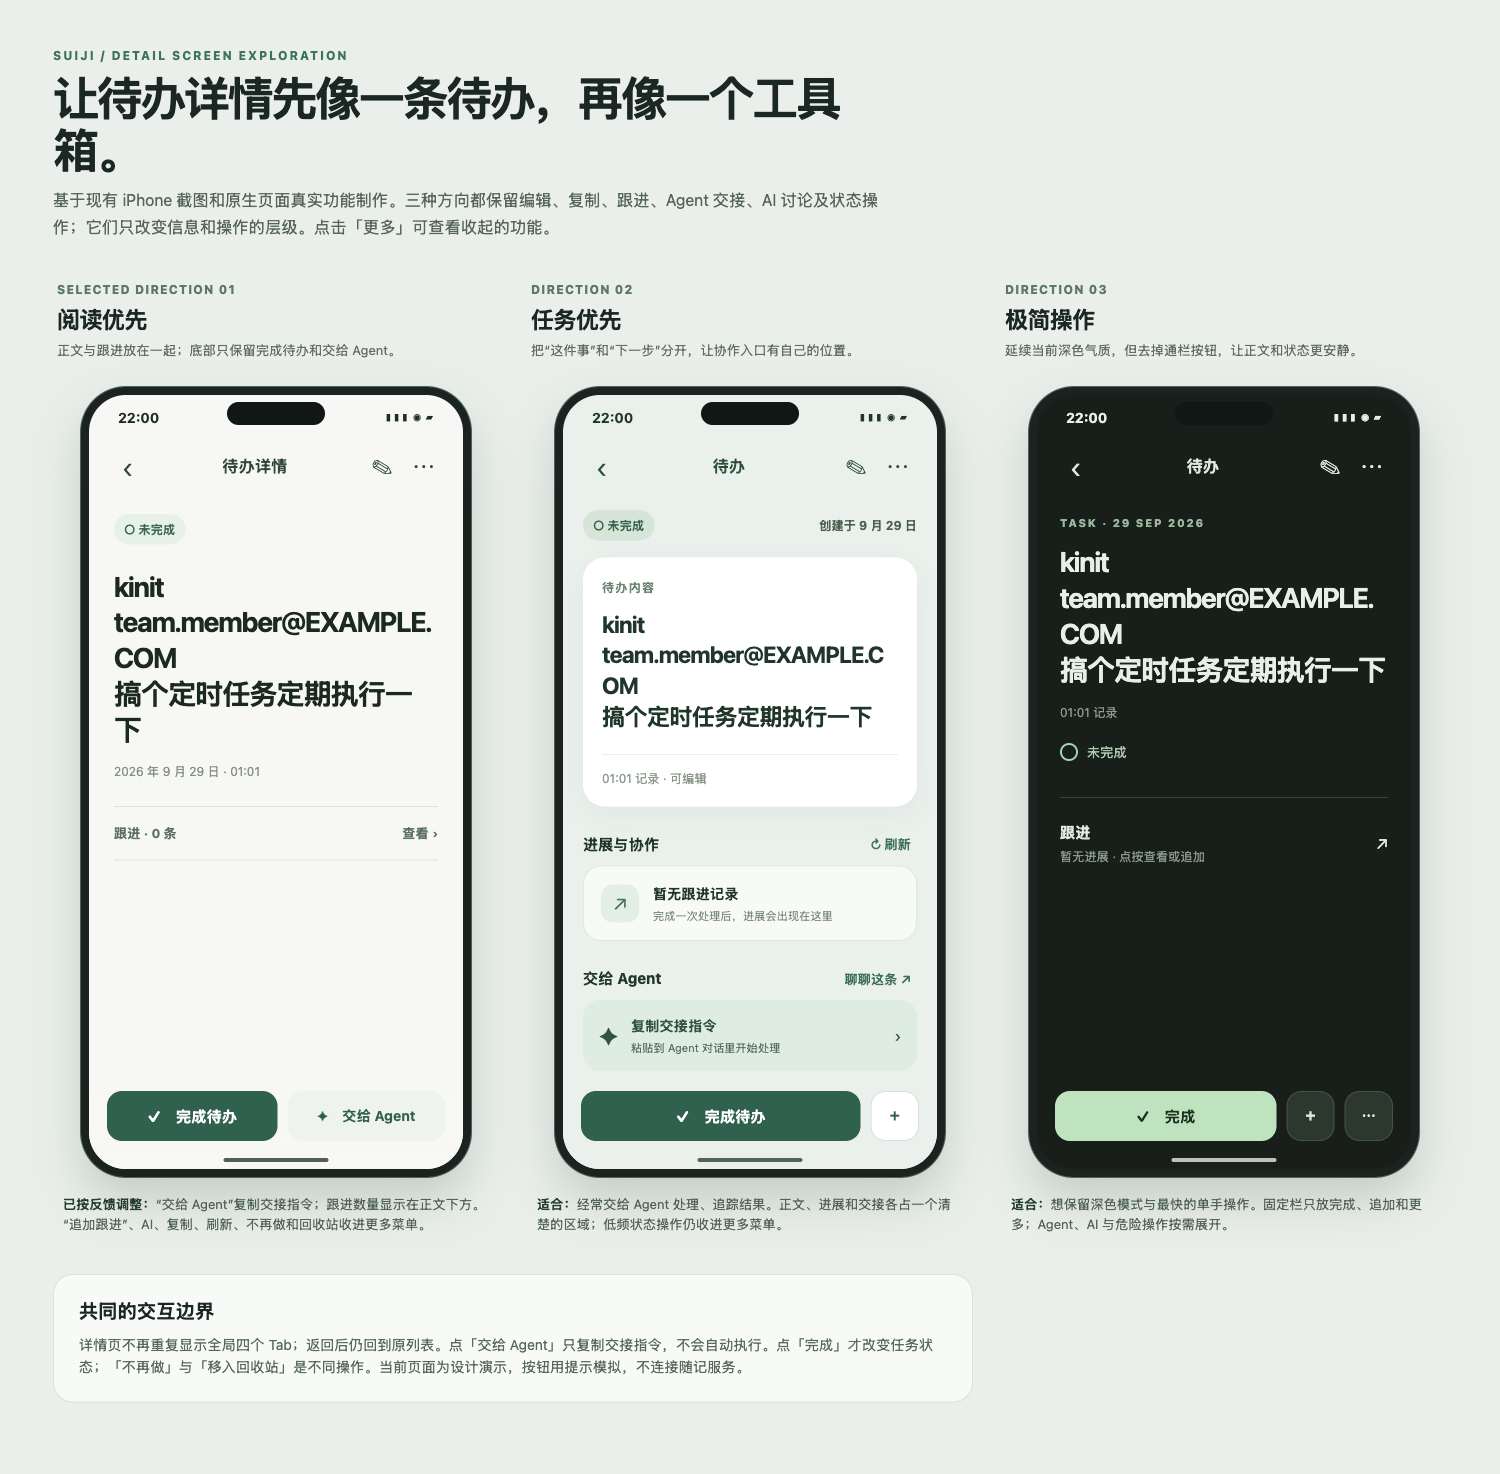
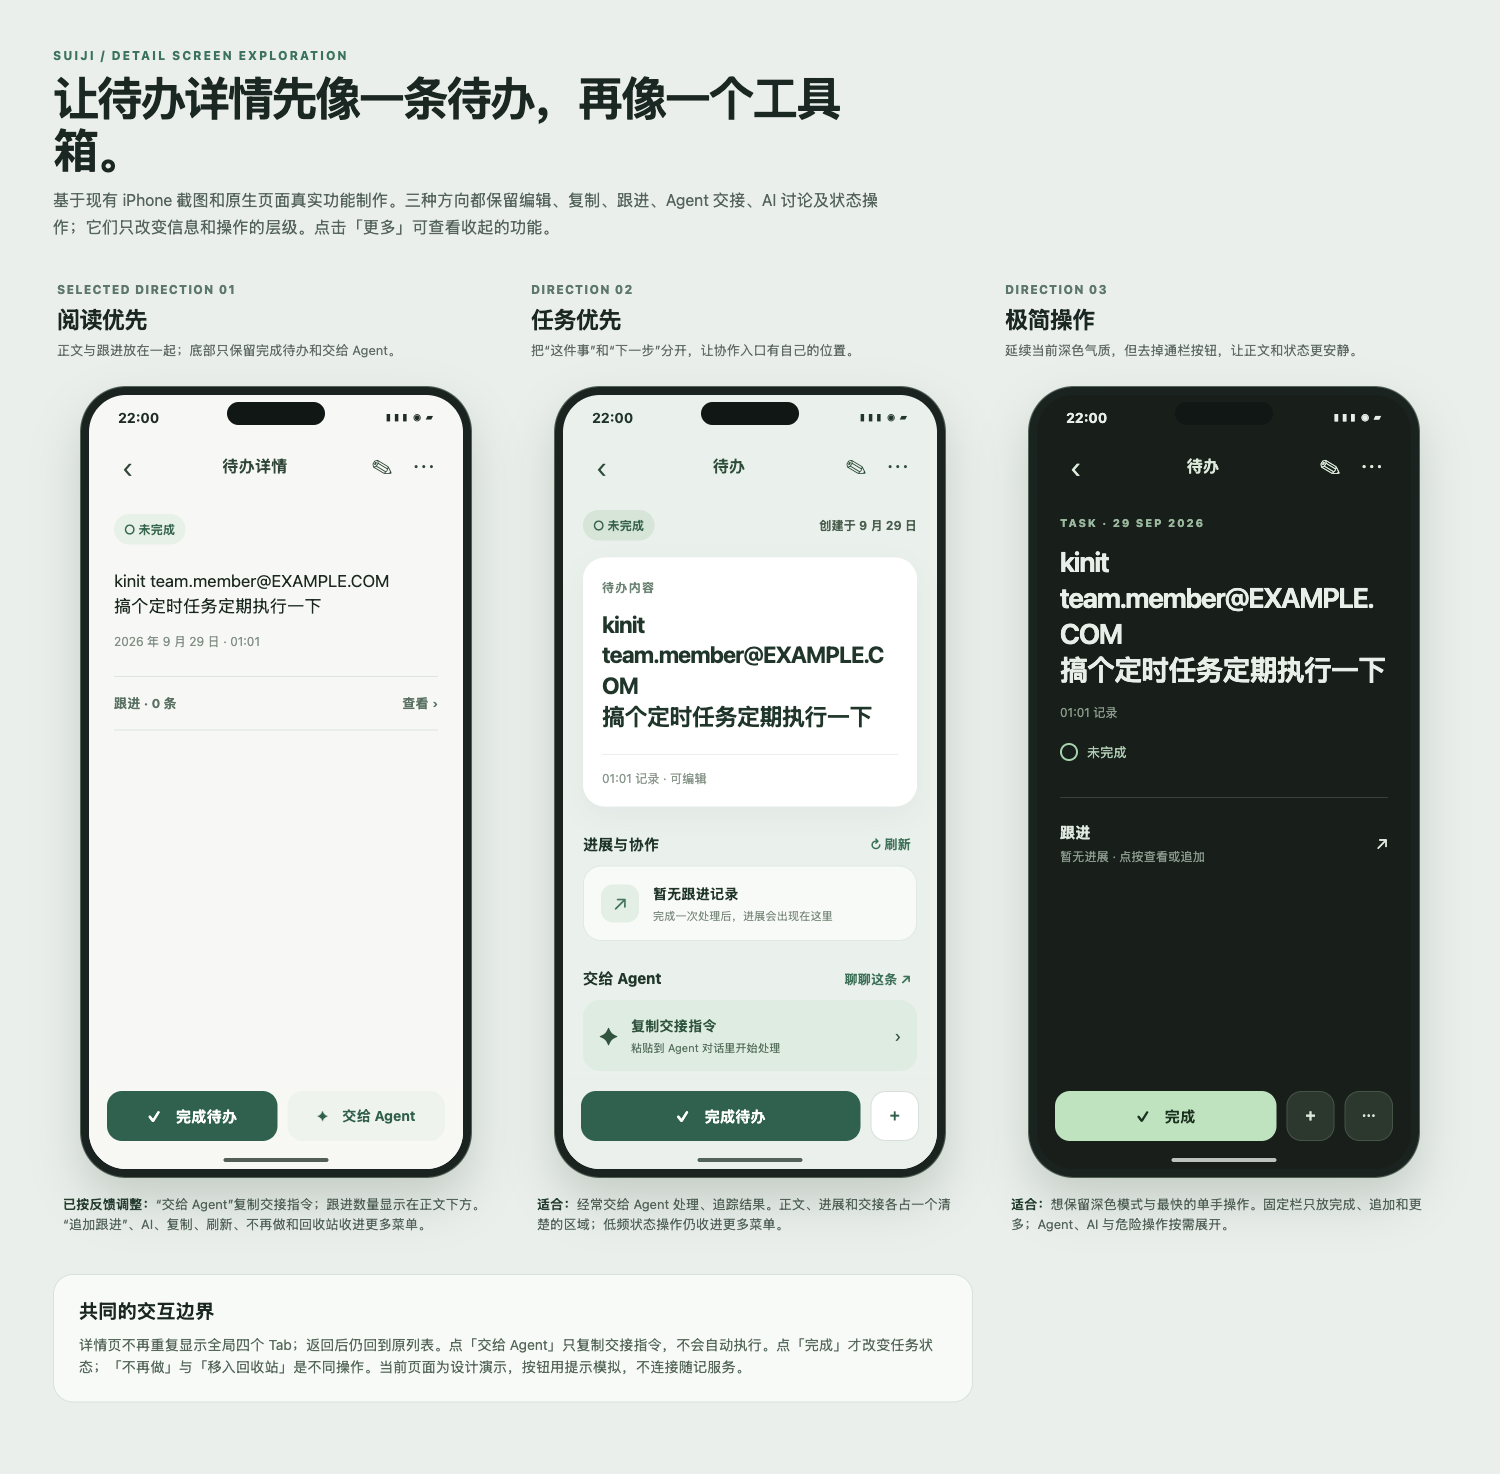
fix(suiji): use reading typography for record details

Changed region(s): [[0.0613, 0.3745, 0.276, 0.4993], [0.0613, 0.5617, 0.092, 0.5929]]

diff --git a/packages/suiji-ios/Sources/SuijiIOS/DesignSystem/RecordBody.swift b/packages/suiji-ios/Sources/SuijiIOS/DesignSystem/RecordBody.swift
@@ -6,8 +6,6 @@ struct RecordBody: UIViewRepresentable {
   let text: String
   var lineLimit: Int = 0
   var linksOnly: Bool = false
-  var textStyle: UIFont.TextStyle = .body
-  var fontWeight: UIFont.Weight = .regular
   @Environment(\.dynamicTypeSize) private var dynamicTypeSize
   @Environment(\.suijiOpenLink) private var openLink
   private static let detector = try? NSDataDetector(types: NSTextCheckingResult.CheckingType.link.rawValue)
@@ -52,7 +50,7 @@ struct RecordBody: UIViewRepresentable {
       }
       view.attributedText = attributed
     }
-    view.font = .systemFont(ofSize: UIFont.preferredFont(forTextStyle: textStyle).pointSize, weight: fontWeight)
+    view.font = .preferredFont(forTextStyle: .body)
     view.textColor = UIColor(SuijiTheme.ink)
     view.linkTextAttributes = [.foregroundColor: UIColor(SuijiTheme.green), .underlineStyle: NSUnderlineStyle.single.rawValue]
     view.textContainer.maximumNumberOfLines = lineLimit

diff --git a/docs/prototypes/suiji-detail-redesign/index.html b/docs/prototypes/suiji-detail-redesign/index.html
@@ -52,7 +52,7 @@
     .reading .nav { color: #2a4837; }
     .reading .reading-content { padding: 23px 25px; }
     .reading .tag { background: #e4f1e7; color: #24674c; }
-    .reading h3 { margin: 24px 0 16px; color: #17291e; font-size: 28px; line-height: 1.28; font-weight: 680; letter-spacing: -.045em; }
+    .reading h3 { margin: 24px 0 16px; color: #17291e; font-size: 17px; line-height: 1.45; font-weight: 400; }
     .reading .meta { color: #809085; }
     .reading .follow-inline { display: flex; align-items: center; justify-content: space-between; width: 100%; margin-top: 26px; padding: 17px 0; border: 0; border-top: 1px solid #dbe4da; border-bottom: 1px solid #dbe4da; color: #537262; background: transparent; text-align: left; font-size: 13px; font-weight: 700; }
     .section-label { color: #71847a; font-size: 12px; font-weight: 800; letter-spacing: .09em; }

diff --git a/packages/suiji-ios/Sources/SuijiIOS/Features/RecordDetail.swift b/packages/suiji-ios/Sources/SuijiIOS/Features/RecordDetail.swift
@@ -46,7 +46,7 @@ struct RecordDetail: View {
       VStack(alignment: .leading, spacing: 20) {
         if let citedVersion, citedVersion != record.version { Text("此记录已更新；回答引用的是版本 \(citedVersion)，下方是当前原文。").font(.footnote).foregroundStyle(.secondary) }
         if let status = record.taskStatus { TaskStatusBadge(status: status) }
-        RecordBody(text: record.body, textStyle: .title1, fontWeight: .semibold)
+        RecordBody(text: record.body)
           .frame(maxWidth: .infinity, alignment: .leading)
         if let tags = record.tags, !tags.isEmpty {
           RecordTags(tags: tags) { session.selectedTag = $0; dismiss() }
